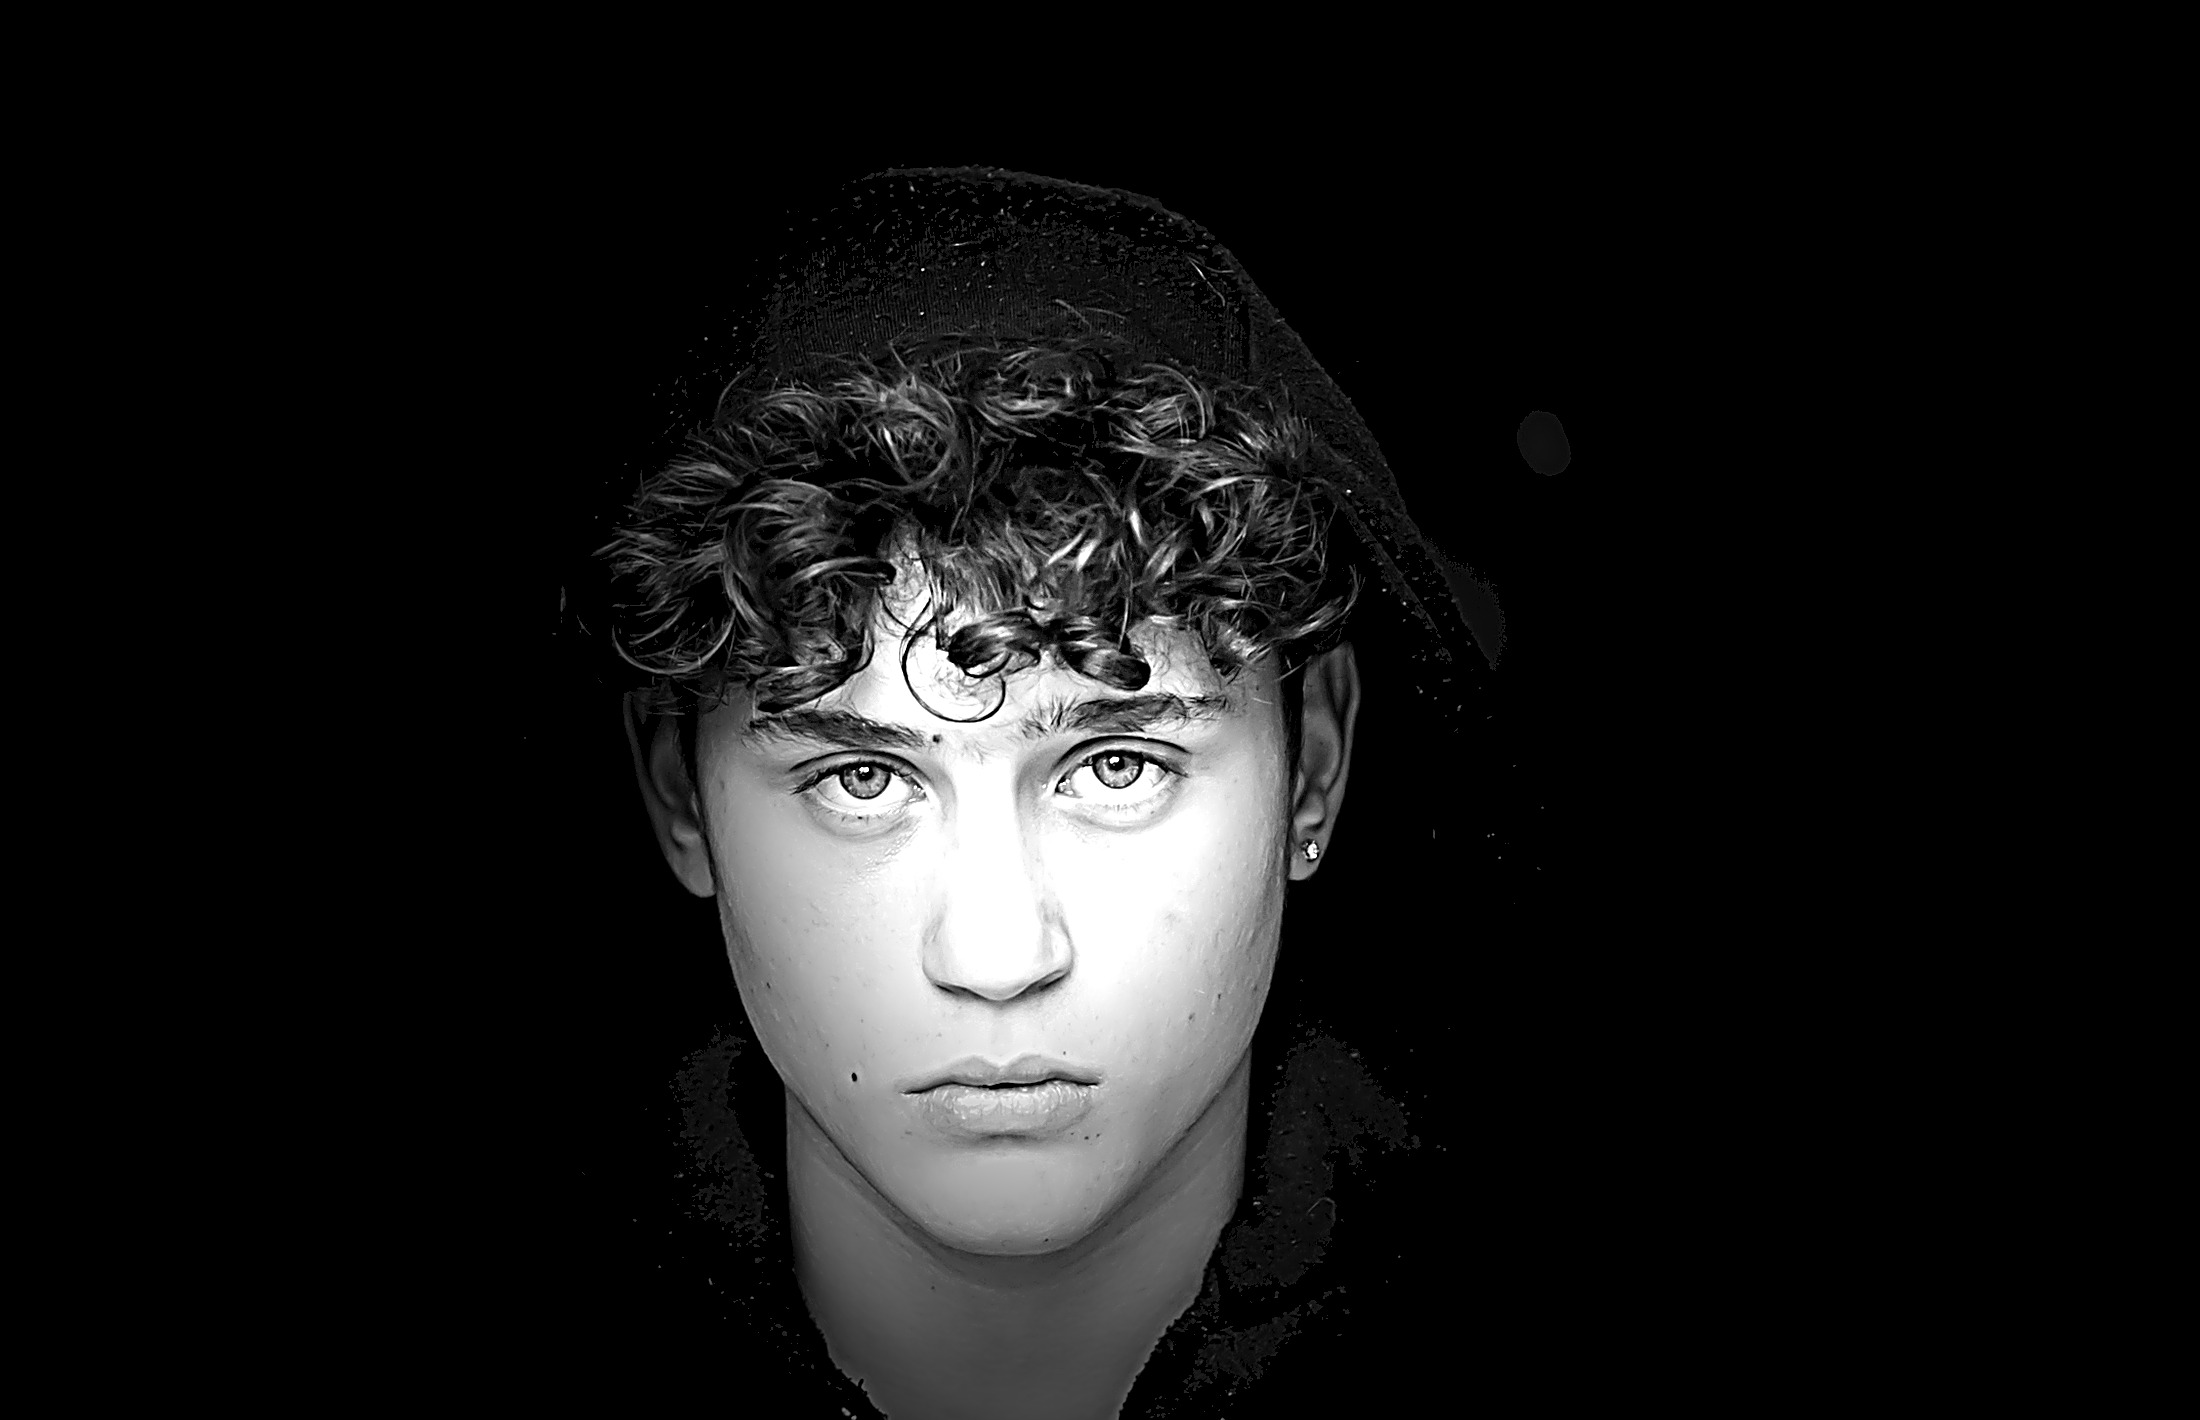
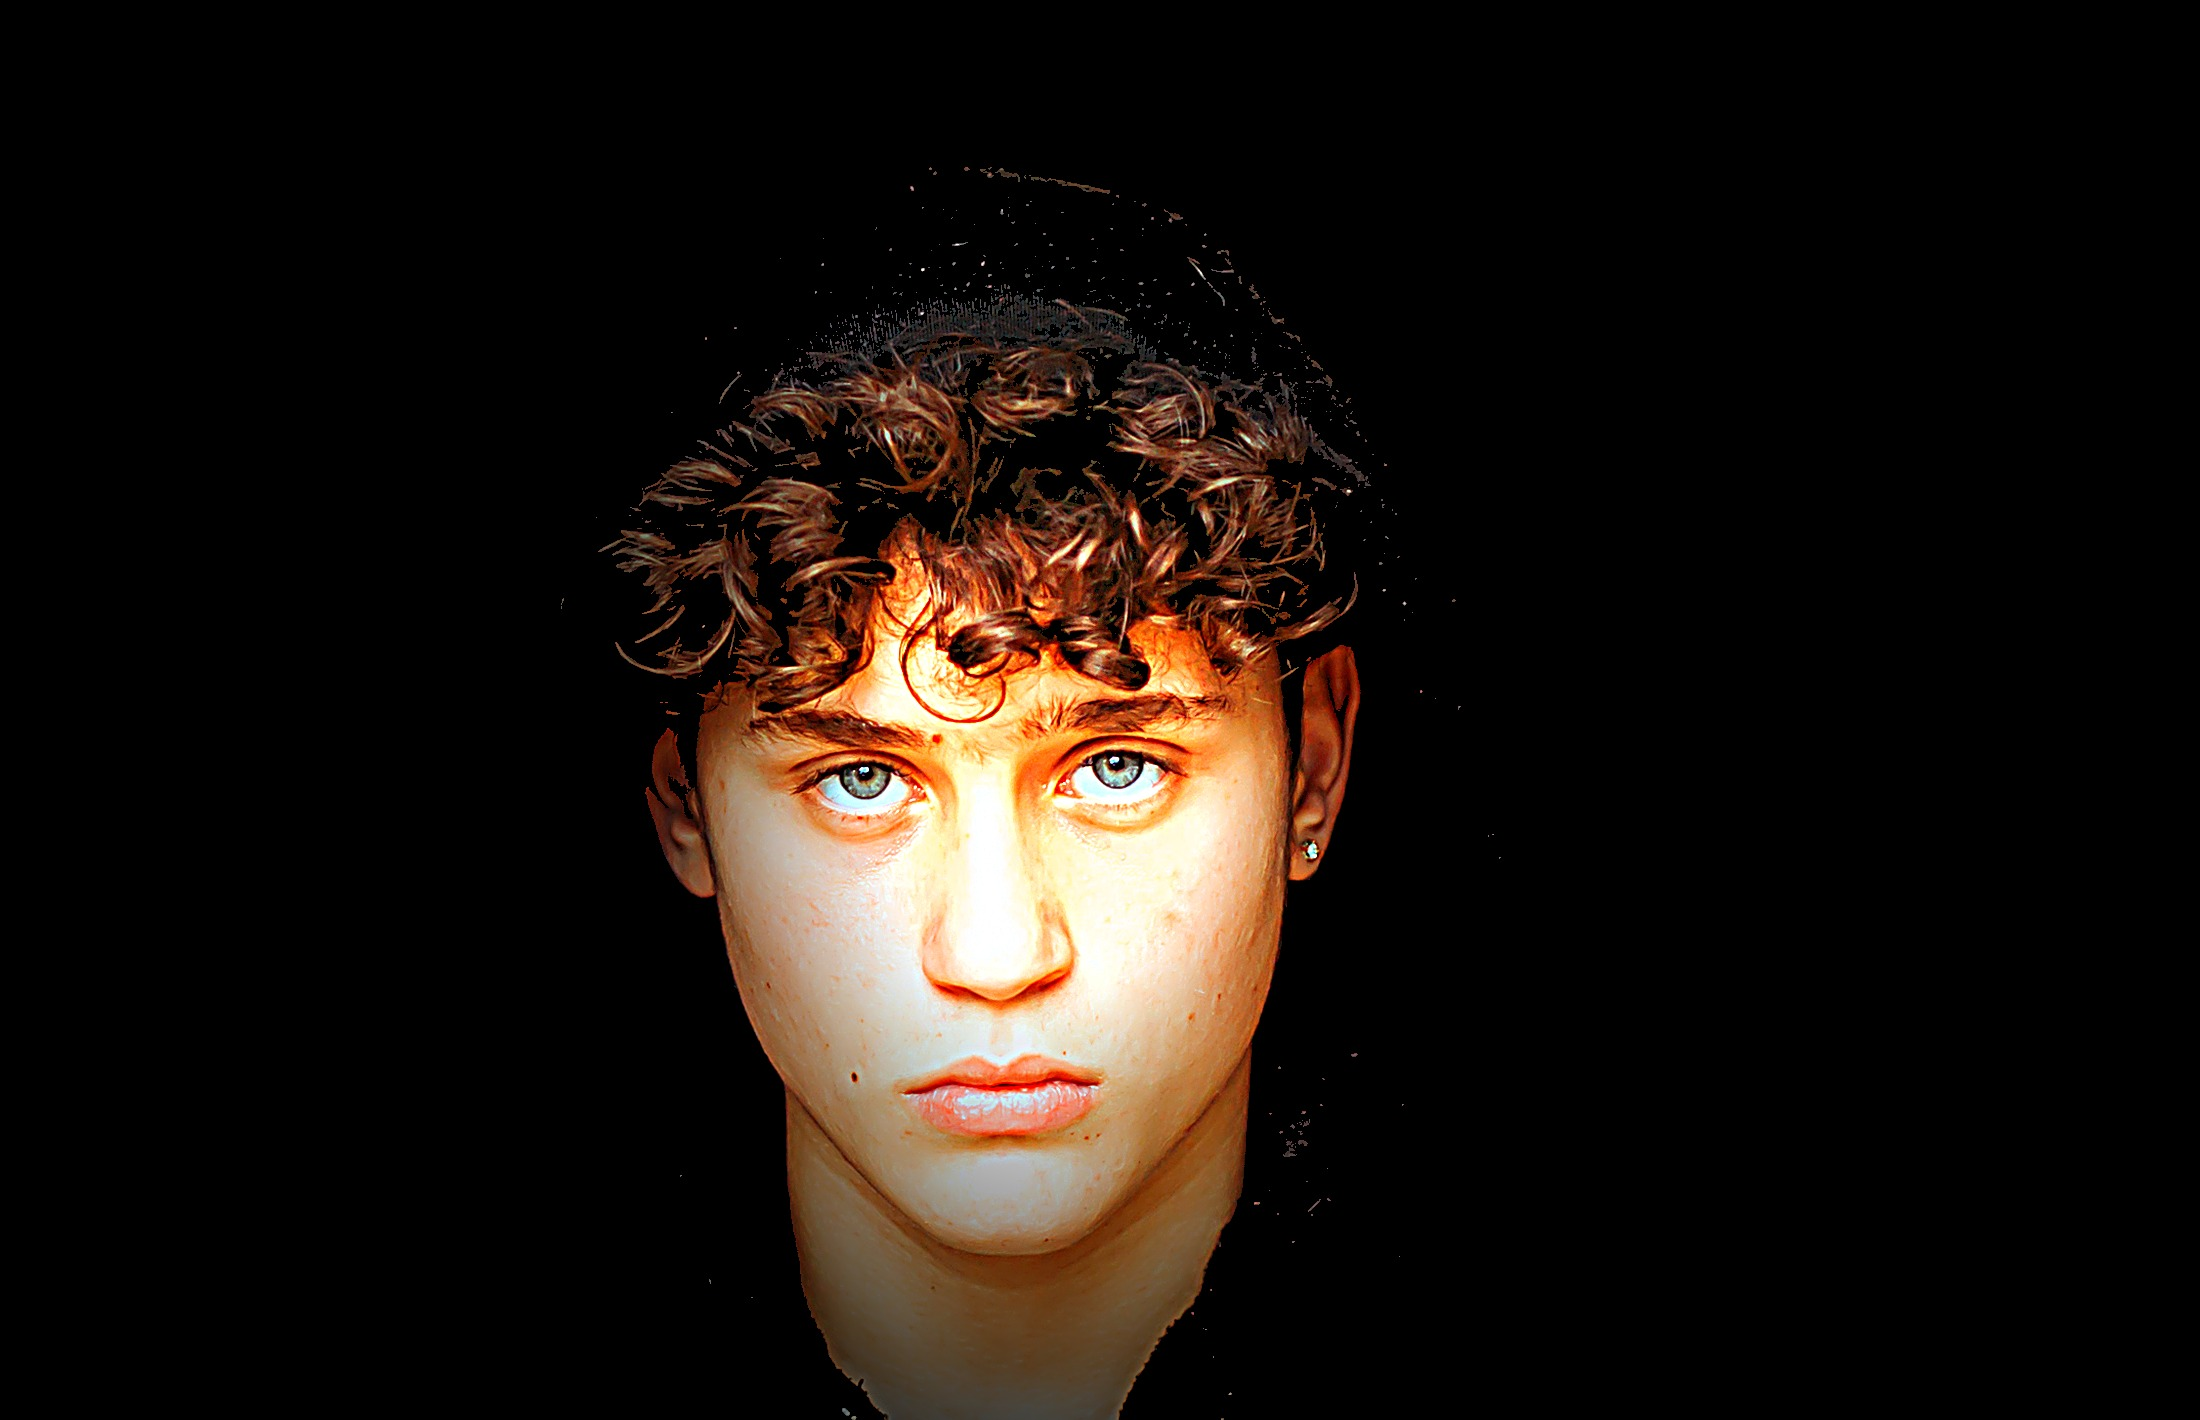
Colour the ASCII grid from the source
Glyphs now take their colour from the source pixel instead of a grey
ramp, so the face renders in Ron's actual skin tone. Sampled off the
original: highlight #ECC6AF, midtone #E0A887.

Regenerate public/ron.jpg in colour. The tone curve is applied to
luminance only with chroma carried along, so skin survives the contrast
lift, and saturation is pushed 1.45x since a face reduced to 6px glyphs
loses apparent colour.

Hot spots lift toward white, dark cells get a floor so they read as
glyphs rather than mud. Resolve noise picks up the same warmth.

Changed region(s): [[0.2782, 0.093, 0.6491, 0.9915]]

diff --git a/src/components/ui/ascii-canvas.jsx b/src/components/ui/ascii-canvas.jsx
@@ -220,7 +220,7 @@ export function AsciiCanvas({
             if (flick < 0.55) continue;
             const ch = NOISE_GLYPHS[Math.floor(flick * NOISE_GLYPHS.length)];
             const dx0 = (x - midX) / midX;
-            ctx.fillStyle = `rgba(150,150,150,${0.12 + flick * 0.16})`;
+            ctx.fillStyle = `rgba(190,160,140,${0.12 + flick * 0.16})`;
             ctx.fillText(ch, x * cell, y * cell * 1.05 + dx0 * dx0 * curve * cell * rows * 0.06);
             continue;
           }
@@ -241,8 +241,23 @@ export function AsciiCanvas({
           const age = Math.min(1, (reveal - threshold) * 7);
           const a = Math.min(1, 0.32 + l * 0.95) * age;
 
-          const g = l > 0.78 ? 255 : l > 0.5 ? 226 : 186;
-          ctx.fillStyle = `rgba(${g},${g},${g},${a})`;
+          // colour comes from the source pixel: the face renders in real
+          // skin tone, the hood and jacket stay neutral on their own
+          let cr = px[i], cg = px[i + 1], cb = px[i + 2];
+
+          // lift toward white in the hot spots so highlights still pop
+          if (l > 0.86) {
+            const k = (l - 0.86) / 0.14;
+            cr += (255 - cr) * k;
+            cg += (255 - cg) * k;
+            cb += (255 - cb) * k;
+          }
+
+          // floor the darkest cells so they read as glyphs, not mud
+          const lift = 62 * (1 - l);
+          ctx.fillStyle = `rgba(${Math.min(255, cr + lift) | 0},${
+            Math.min(255, cg + lift) | 0
+          },${Math.min(255, cb + lift) | 0},${a})`;
 
           ctx.fillText(ch, x * cell, y * cell * 1.05 + bow);
         }

diff --git a/README.md b/README.md
@@ -357,6 +357,25 @@ Put it at `public/ron.jpg`. The grid reads contrast, not detail:
 | `fps` | `24` | frame cap. The grid does not need 60. |
 | `curve` | `0.16` | barrel bow. `0` is flat. |
 
+### Colour
+
+Glyphs take their colour from the source pixel, so the face renders in Ron's
+actual skin tone rather than a tint. Sampled off the original photo:
+
+| | |
+|---|---|
+| skin highlight | `#ECC6AF` |
+| skin midtone | `#E0A887` |
+
+`public/ron.jpg` is kept in colour for this reason. It is processed with the
+tone curve applied to luminance only, chroma carried along, so skin stays
+skin through the contrast lift. Saturation is pushed 1.45x, because a face
+reduced to 6px glyphs loses apparent colour.
+
+The renderer lifts hot spots toward white and floors dark cells so they read
+as glyphs rather than mud. The hood and jacket stay neutral on their own,
+since they are neutral in the photo.
+
 ### Motion
 
 Three behaviours, all driven off one `reveal` value per cell:
